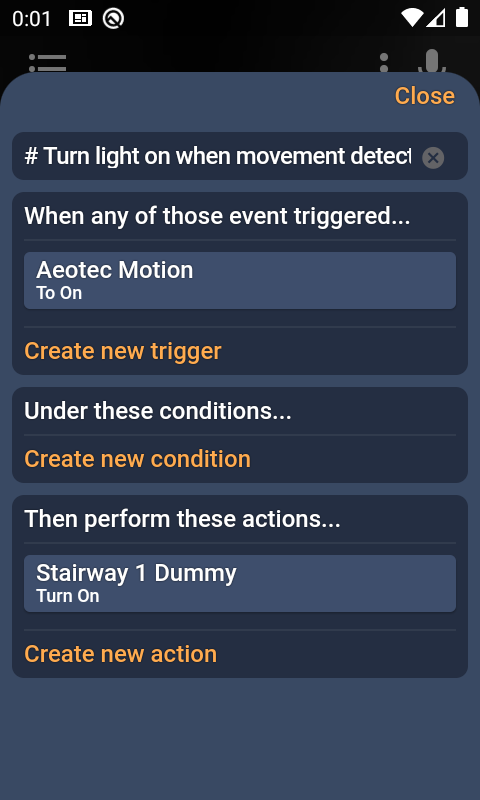
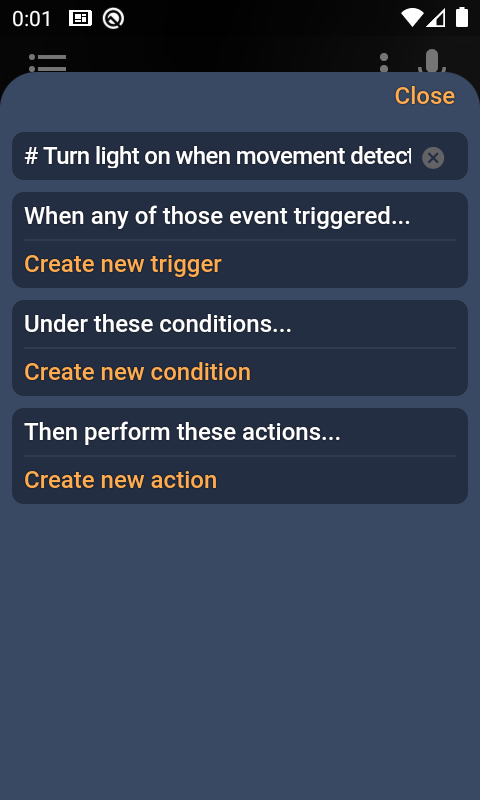
.

Changed region(s): [[0.0, 0.3125, 1.0, 0.875]]

diff --git a/automation.md b/automation.md
@@ -10,10 +10,17 @@ Here are a few Automation examples:
 
 ![alt text](https://github.com/tuanha2000vn/Home-Assistant-Dashboard/blob/master/automation/a.1.1.png?raw=true)
 
-Create new trigger > Device state changed > Select device > Click To > Set to "On"
+Go to Automation tab > Top right menu > Create automation > Wait few second > Click the newly created Automation > Edit automation
 
 ![alt text](https://github.com/tuanha2000vn/Home-Assistant-Dashboard/blob/master/automation/a.1.2.png?raw=true)
 
-Create new action > Change device state > Select device > Click Light/Switch > Set to "Turn On"
+Create new trigger > Device state changed > Select device > Click To > Set to "On"
+
 
 ![alt text](https://github.com/tuanha2000vn/Home-Assistant-Dashboard/blob/master/automation/a.1.3.png?raw=true)
+
+Create new action > Change device state > Select device > Click Light/Switch > Set to "Turn On"
+
+![alt text](https://github.com/tuanha2000vn/Home-Assistant-Dashboard/blob/master/automation/a.1.4.png?raw=true)
+
+Final result
